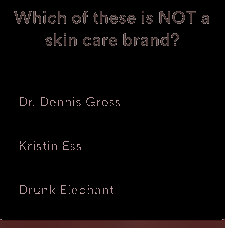
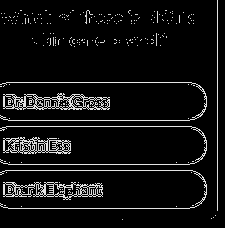
more work with image processing

diff --git a/letsWinHQ.py b/letsWinHQ.py
@@ -18,11 +18,10 @@ def main():
     last_time = time.time()
     while True:
         question_screen = np.array(ImageGrab.grab(bbox=(65, 172, 290, 400)))
-        # question_screen = cv2.cvtColor(question_screen, cv2.COLOR_BGR2GRAY)
-        mask = (question_screen == [230, 230, 230]).all(axis=2)
-        question_screen[mask] = [255, 255, 255]
-        new_mask = (question_screen >= [160, 160, 160]).all(axis=2)
-        question_screen[new_mask] = [0, 0, 0]
+        question_screen[np.where((question_screen <= [200, 200, 200]).all(axis=2))] = [0, 0, 0]
+        question_screen[np.where((question_screen >= [230, 230, 230]).all(axis=2))] = [0, 0, 0]
+        question_screen = cv2.cvtColor(question_screen, cv2.COLOR_BGR2GRAY)
+
 
         cv2.imshow('HQ', cv2.cvtColor(question_screen, cv2.COLOR_BGR2RGB))
         cv2.imwrite('output.png', question_screen)
